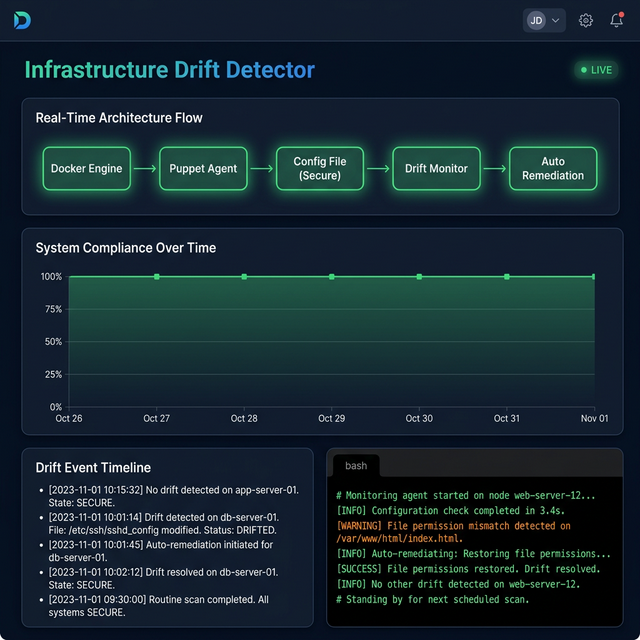
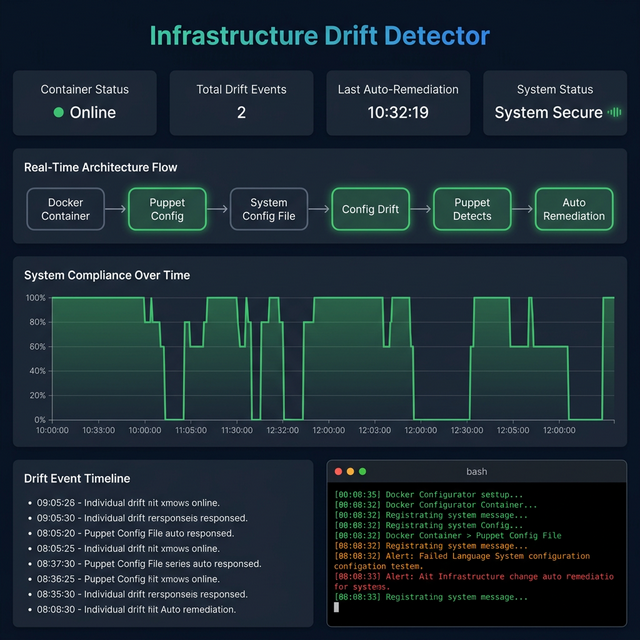
Fix dashboard timestamp parsing and restore clean monitoring layout

diff --git a/ui/app.js b/ui/app.js
@@ -90,17 +90,16 @@ function updateChart(lines) {
     if (parts.length === 3) {
       const time = parts[0];
       const event = parts[1].toLowerCase();
-      const status = parts[2].toLowerCase();
       
       labels.push(time);
       
-      if (status === 'success' && event.includes('baseline')) {
+      if (event.includes('baseline applied')) {
         currentCompliance = 100;
-      } else if (status === 'warning' || event.includes('introduced')) {
+      } else if (event.includes('drift introduced')) {
         currentCompliance = 0;
-      } else if (status === 'alert' || event.includes('detected')) {
+      } else if (event.includes('drift detected')) {
         currentCompliance = 0;
-      } else if (status === 'success' && event.includes('restored')) {
+      } else if (event.includes('configuration restored')) {
         currentCompliance = 100;
       }
       
@@ -108,7 +107,6 @@ function updateChart(lines) {
     }
   });
   
-  // Dynamic coloring based on current end-state
   if (currentCompliance === 100) {
       complianceChart.data.datasets[0].borderColor = '#10b981';
       complianceChart.data.datasets[0].backgroundColor = 'rgba(16, 185, 129, 0.15)';
@@ -125,7 +123,7 @@ function updateChart(lines) {
 }
 
 function resetNodes() {
-  const nodes = ['node-docker', 'node-puppet', 'node-file', 'node-drift', 'node-fix'];
+  const nodes = ['node-docker', 'node-puppet', 'node-file', 'node-drift', 'node-detection', 'node-fix'];
   nodes.forEach(id => {
     const el = document.getElementById(id);
     if(el) el.className = 'node';
@@ -141,10 +139,10 @@ function updateVisualization(status, event) {
   const puppet = document.getElementById('node-puppet');
   const file = document.getElementById('node-file');
   const drift = document.getElementById('node-drift');
+  const detection = document.getElementById('node-detection');
   const fix = document.getElementById('node-fix');
   const fileText = document.getElementById('file-status-text');
 
-  // Architecture foundations always pulsing light green to show heartbeat
   docker.classList.add('active-safe');
   puppet.classList.add('active-safe');
 
@@ -160,6 +158,7 @@ function updateVisualization(status, event) {
     file.classList.add('active-danger');
     fileText.innerHTML = '<strong>(Drifted)</strong>';
     drift.classList.add('active-danger');
+    detection.classList.add('active-danger');
     fix.classList.add('active-fix');
   } else if (status === 'success' && event.includes('restored')) {
     file.classList.add('active-safe');
@@ -206,18 +205,23 @@ function processLogs(logText) {
       const event = parts[1];
       const status = parts[2].toLowerCase();
 
-      // Write styled raw log
       const div = document.createElement('div');
-      if (status === 'warning') {
+      if (status === 'success') {
+        div.style.color = 'var(--success)';
+      } else if (status === 'warning') {
         div.className = 'log-warn';
       } else if (status === 'alert') {
         div.className = 'log-err';
-        driftCount++;
-      } else if (status === 'success') {
-        div.style.color = 'var(--success)';
       }
       div.textContent = `[${time}] ${event} | ${status}`;
       logOutput.appendChild(div);
+
+      if (event.toLowerCase().includes('drift detected')) {
+        driftCount++;
+      }
+      if (event.toLowerCase().includes('configuration restored')) {
+        lastFixTime = time;
+      }
 
       lastStatus = status;
       lastEvent = event;
@@ -225,7 +229,6 @@ function processLogs(logText) {
       const li = document.createElement('li');
       li.className = `status-${status}`;
       
-      // Highlight the very latest event
       if (index === lines.length - 1) {
         li.classList.add('latest-event');
       }
@@ -253,7 +256,6 @@ function processLogs(logText) {
       } else if (event.includes('restored')) {
         currentState = "app_mode=production\ntimeout=30\nenable_secure_mode=true";
         configElement.className = "code-block";
-        lastFixTime = time;
         isSecure = true;
       }
     }
@@ -262,7 +264,7 @@ function processLogs(logText) {
   if (lines.length === 0) {
     timeline.innerHTML = '<li class="timeline-empty">Waiting for DevOps pipeline events...</li>';
     resetNodes();
-    if(complianceChart) updateChart([]); // Clear chart
+    if(complianceChart) updateChart([]);
   } else {
     updateVisualization(lastStatus, lastEvent);
     updateChart(lines);
@@ -271,10 +273,8 @@ function processLogs(logText) {
 
   configElement.textContent = currentState;
   logOutput.scrollTop = logOutput.scrollHeight;
-  // auto-scroll timeline
   timeline.scrollTop = timeline.scrollHeight;
 }
 
-// Auto-refresh logs every 2 seconds
 setInterval(fetchLogs, 2000);
 fetchLogs();

diff --git a/ui/index.html b/ui/index.html
@@ -15,40 +15,42 @@
         <h1>Infrastructure Drift Detector</h1>
         <p class="subtitle">Mahir Desai | 23FE10CSE00345 | CSE3253 DevOps</p>
       </div>
-      <!-- Top KPIs -->
-      <div class="kpi-container">
-        <div class="kpi-card" id="kpi-container-status">
-          <span class="kpi-label">Container Status</span>
-          <span class="kpi-value safe-text">Online</span>
-        </div>
-        <div class="kpi-card" id="kpi-drift-count">
-          <span class="kpi-label">Total Drift Events</span>
-          <span class="kpi-value" id="val-drift-count">0</span>
-        </div>
-        <div class="kpi-card" id="kpi-last-fix">
-          <span class="kpi-label">Last Auto-Remediation</span>
-          <span class="kpi-value" id="val-last-fix">N/A</span>
-        </div>
-        <div class="kpi-card status-indicator">
-          <span class="pulse" id="system-status">System Active</span>
-        </div>
-      </div>
     </header>
+
+    <!-- Top KPIs -->
+    <div class="kpi-container">
+      <div class="kpi-card" id="kpi-container-status">
+        <span class="kpi-label">Container Status</span>
+        <span class="kpi-value safe-text">Online</span>
+      </div>
+      <div class="kpi-card" id="kpi-drift-count">
+        <span class="kpi-label">Total Drift Events</span>
+        <span class="kpi-value" id="val-drift-count">0</span>
+      </div>
+      <div class="kpi-card" id="kpi-last-fix">
+        <span class="kpi-label">Last Auto-Remediation</span>
+        <span class="kpi-value" id="val-last-fix">N/A</span>
+      </div>
+      <div class="kpi-card status-indicator-card">
+        <span class="kpi-label">System Status</span>
+        <span class="pulse" id="system-status">System Secure</span>
+      </div>
+    </div>
 
     <div class="diagram-section card">
       <h2>Real-Time Architecture Flow</h2>
       <div class="diagram" id="flow-diagram">
-        <div class="node" id="node-docker">🐳<br>Docker Container</div> 
-        <div class="arrow">↓</div>
-        <div class="node" id="node-puppet">🎭<br>Puppet Configuration</div>
-        <div class="arrow">↓</div>
-        <div class="node" id="node-file">📄<br>System Configuration File<br><small id="file-status-text">(Awaiting Data)</small></div>
-        <div class="arrow">↓</div>
-        <div class="node" id="node-drift">⚠<br>Configuration Drift</div>
-        <div class="arrow">↓</div>
-        <div class="node" id="node-detection">🔍<br>Puppet Detection</div>
-        <div class="arrow">↓</div>
-        <div class="node" id="node-fix">🛠<br>Automatic Remediation</div>
+        <div class="node" id="node-docker">Docker Container</div> 
+        <div class="arrow">→</div>
+        <div class="node" id="node-puppet">Puppet Config</div>
+        <div class="arrow">→</div>
+        <div class="node" id="node-file">System Config File<br><small id="file-status-text">(Awaiting Data)</small></div>
+        <div class="arrow">→</div>
+        <div class="node" id="node-drift">Config Drift</div>
+        <div class="arrow">→</div>
+        <div class="node" id="node-detection">Puppet Detects</div>
+        <div class="arrow">→</div>
+        <div class="node" id="node-fix">Auto Remediation</div>
       </div>
     </div>
 

diff --git a/ui/style.css b/ui/style.css
@@ -27,8 +27,8 @@ body {
 
 .header {
   display: flex;
-  flex-direction: column;
-  gap: 15px;
+  justify-content: space-between;
+  align-items: center;
   margin-bottom: 25px;
   padding-bottom: 20px;
   border-bottom: 1px solid var(--border);
@@ -52,28 +52,27 @@ body {
 
 .kpi-container {
   display: flex;
-  flex-wrap: wrap;
+  justify-content: space-between;
   gap: 15px;
   width: 100%;
+  margin-bottom: 25px;
 }
 
 .kpi-card {
-  background: rgba(30, 41, 59, 0.6);
+  background: var(--card-bg);
   border-radius: 8px;
   border: 1px solid var(--border);
-  padding: 12px 20px;
+  padding: 15px 20px;
   display: flex;
   flex-direction: column;
   justify-content: center;
   align-items: flex-start;
   flex: 1;
-  min-width: 150px;
 }
 
-.kpi-card.status-indicator {
+.kpi-card.status-indicator-card {
   align-items: center;
-  background: transparent;
-  border: none;
+  background: rgba(30, 41, 59, 0.4);
 }
 
 .kpi-label {
